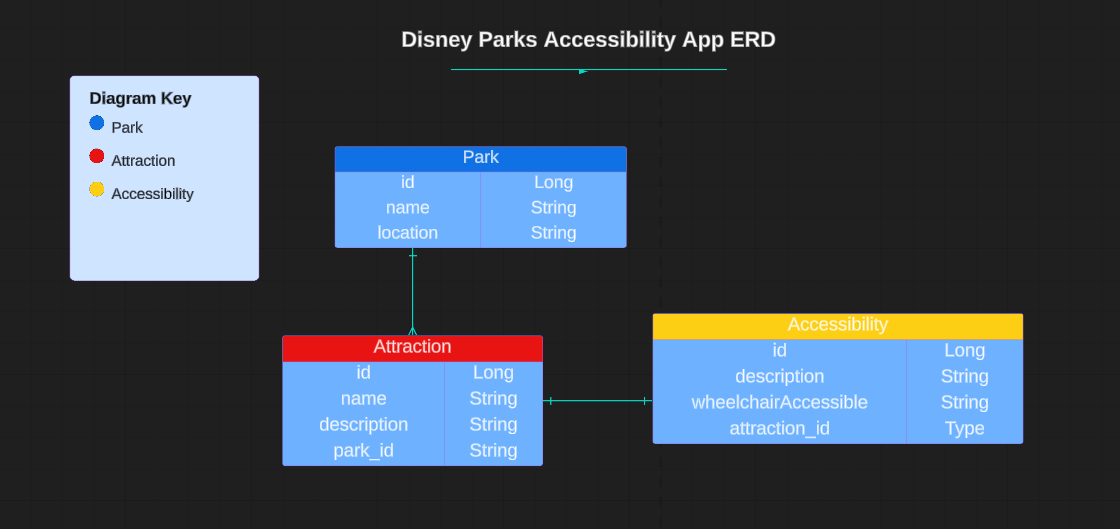
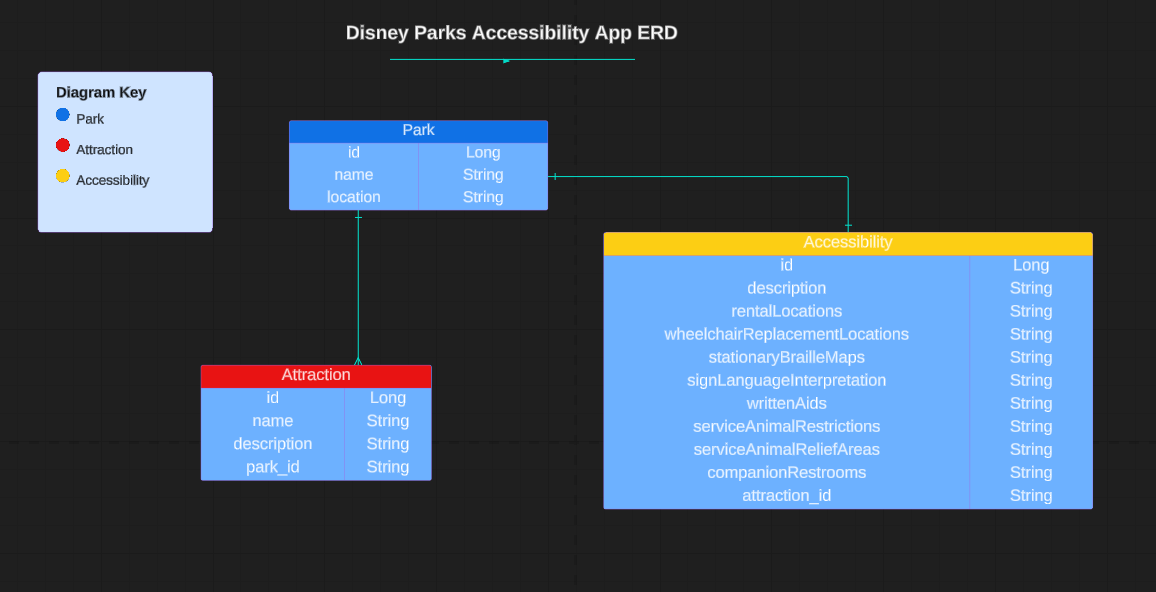
Update README: change endpoints and ERD preview.

diff --git a/README.md b/README.md
@@ -89,9 +89,9 @@ The Disney Parks Accessibility App is a web application designed to provide deta
 |--------------|-----------------------------------------------------------------------------------|------------------------------------------------------------------|--------|
 | GET          | `/api/parks/`                                                                     | Get a list of all parks.                                         | Public |
 | GET          | `/api/parks/{parkId}/`                                                            | Get details of a specific park by ID.                            | Public |
+| GET          | `/api/parks/{parkId}/accessibility/{accessibilityId}/` | Get accessibility information for an attraction.                 | Public |
 | GET          | `/api/parks/{parkId}/attractions/`                                                | Get a list of all attractions in a specific park.                | Public |
 | GET          | `/api/parks/{parkId}/attractions/{attractionId}/`                                 | Get details of a specific attraction.                            | Public |
-| GET          | `/api/parks/{parkId}/attractions/{attractionId}/accessibility/{accessibilityId}/` | Get accessibility information for an attraction.                 | Public |
 
 
 
